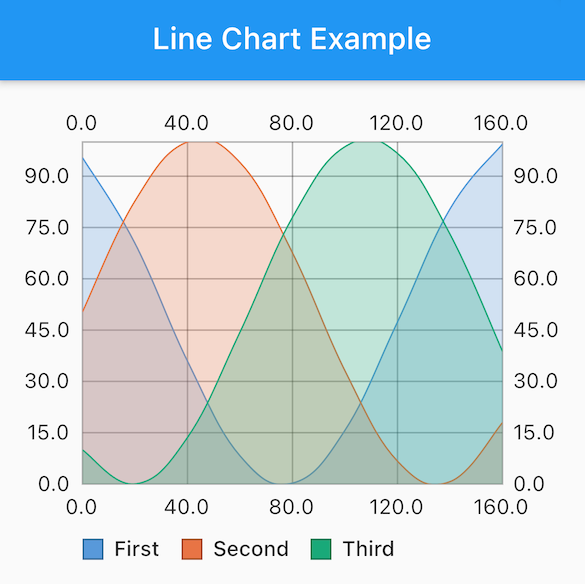
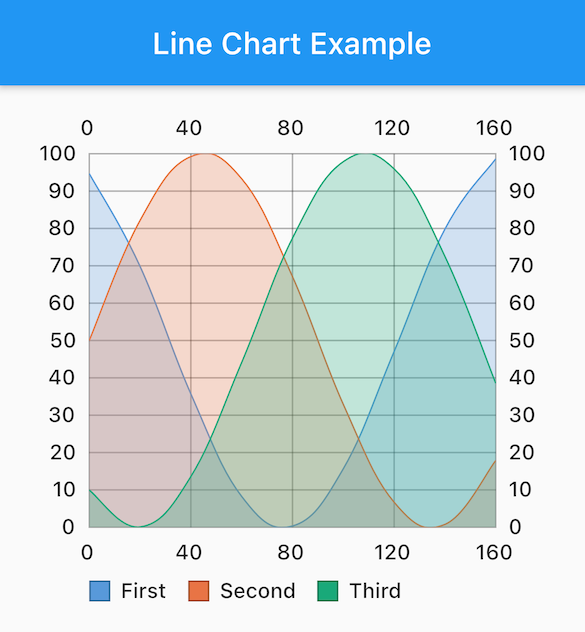
fill in chart data point margin
When minimum range is specified, fill in missing data point
labels and lines.

diff --git a/lib/src/axis_labeller.dart b/lib/src/axis_labeller.dart
@@ -6,7 +6,6 @@ import 'package:simple_line_chart/src/projection.dart';
 
 import 'line_chart_data.dart';
 import 'style.dart';
-import 'extensions.dart';
 import 'text_painter.dart';
 
 enum AxisDimension { X, Y }
@@ -15,13 +14,15 @@ class AxisLabeller {
   final LineChartStyle style;
   final AxisStyle axisStyle;
   final LineChartData data;
-  final List<Dataset> datasets;
+  late final YAxisDependency axisDependency;
   final AxisDimension axis;
   final double length;
   List<LabelPoint>? _labelPoints;
 
-  AxisLabeller(this.style, this.axisStyle, this.data, this.datasets, this.axis,
-      this.length);
+  AxisLabeller(this.style, this.axisStyle, this.data,
+      YAxisDependency? axisDependency, this.axis, this.length) {
+    this.axisDependency = axisDependency ?? YAxisDependency.LEFT;
+  }
 
   double get fontSize =>
       axisStyle.textStyle.fontSize ?? AxisStyle.defaultFontSize;
@@ -33,6 +34,12 @@ class AxisLabeller {
       : labelPoints().map((e) => e.height).reduce(max);
 
   List<LabelPoint> labelPoints() {
+    var axisDependency = this.axisDependency;
+    var datasets = data.datasetsOf(axisDependency: axisDependency);
+    if (datasets.isEmpty) {
+      axisDependency = YAxisDependency.LEFT;
+      datasets = data.datasetsOf(axisDependency: axisDependency);
+    }
     if (datasets.isEmpty || datasets.first.dataPoints.length < 2) {
       return [];
     }
@@ -64,30 +71,15 @@ class AxisLabeller {
                     .dx))
             .toList();
       } else {
-        var minY = datasets
-            .map((dataset) => dataset.dataPoints.map((p) => p.y).reduce(min))
-            .reduce(min);
-        var maxY = datasets
-            .map((dataset) => dataset.dataPoints.map((p) => p.y).reduce(max))
-            .reduce(max);
-        if (axisStyle.marginAbove != null) {
-          maxY += axisStyle.marginAbove!;
-        }
-        if (axisStyle.marginBelow != null) {
-          minY -= axisStyle.marginBelow!;
-        }
-        if (axisStyle.absoluteMin != null) {
-          minY = axisStyle.absoluteMin!;
-        }
-        if (axisStyle.absoluteMax != null) {
-          maxY = axisStyle.absoluteMax!;
-        }
-        minY = minY.floor().toDouble();
-        maxY = maxY.ceil().toDouble();
-        final interval = (minY.difference(maxY) / labelCount).ceil();
+        final metrics = axisDependency == YAxisDependency.LEFT
+            ? projection.leftMetrics()
+            : projection.rightMetrics();
+        final interval = (metrics.rangeY / labelCount).ceil();
         _labelPoints = <LabelPoint>[];
         if (interval > 0) {
-          for (var labelY = minY; labelY <= maxY; labelY += interval) {
+          for (var labelY = metrics.minY;
+              labelY <= metrics.maxY;
+              labelY += interval) {
             final text = axisStyle.labelProvider(DataPoint(x: 0, y: labelY));
             final painter = _createPainter(text);
 

diff --git a/lib/src/line_chart.dart b/lib/src/line_chart.dart
@@ -72,23 +72,24 @@ class LineChart extends StatelessWidget {
 
       var leftAxisWidth = 0.0;
       var rightAxisWidth = 0.0;
-      final leftDatasets =
-          data.datasetsOf(axisDependency: YAxisDependency.LEFT);
-      final rightDatasets =
-          data.datasetsOf(axisDependency: YAxisDependency.RIGHT);
       final topInset = _xAxisHeight(style.topAxisStyle);
       final verticalAxisInset = topInset + bottomInset;
       AxisLabeller? leftAxisLabeller = style.leftAxisStyle == null
           ? null
-          : AxisLabeller(style, style.leftAxisStyle!, data, leftDatasets,
-              AxisDimension.Y, frame.maxHeight - verticalAxisInset);
+          : AxisLabeller(
+              style,
+              style.leftAxisStyle!,
+              data,
+              YAxisDependency.LEFT,
+              AxisDimension.Y,
+              frame.maxHeight - verticalAxisInset);
       AxisLabeller? rightAxisLabeller = style.rightAxisStyle == null
           ? null
           : AxisLabeller(
               style,
               style.rightAxisStyle!,
               data,
-              rightDatasets.isEmpty ? leftDatasets : rightDatasets,
+              YAxisDependency.RIGHT,
               AxisDimension.Y,
               frame.maxHeight - verticalAxisInset);
       if (leftAxisLabeller != null) {
@@ -103,12 +104,12 @@ class LineChart extends StatelessWidget {
       }
       AxisLabeller? topAxisLabeller = style.topAxisStyle == null
           ? null
-          : AxisLabeller(style, style.topAxisStyle!, data, data.datasets,
+          : AxisLabeller(style, style.topAxisStyle!, data, null,
               AxisDimension.X, frame.maxWidth - leftAxisWidth - rightAxisWidth);
 
       AxisLabeller? bottomAxisLabeller = style.bottomAxisStyle == null
           ? null
-          : AxisLabeller(style, style.bottomAxisStyle!, data, data.datasets,
+          : AxisLabeller(style, style.bottomAxisStyle!, data, null,
               AxisDimension.X, frame.maxWidth - leftAxisWidth - rightAxisWidth);
       if (leftAxisLabeller != null) {
         children.add(Positioned(

diff --git a/lib/src/projection.dart b/lib/src/projection.dart
@@ -32,6 +32,12 @@ class Projection {
         style, size, data, _leftMetrics, _rightMetrics, transform);
   }
 
+  ProjectionDatasetMetrics leftMetrics() =>
+      _leftMetrics.toProjectionDatasetMetrics();
+
+  ProjectionDatasetMetrics rightMetrics() =>
+      _rightMetrics.toProjectionDatasetMetrics();
+
   _DatasetMetrics _metrics(YAxisDependency axisDependency) =>
       axisDependency == YAxisDependency.LEFT ? _leftMetrics : _rightMetrics;
 
@@ -88,6 +94,14 @@ class Projection {
     final values = data.datasets.map((e) => e.maxX);
     return values.isEmpty ? 0 : values.reduce(max);
   }
+}
+
+class ProjectionDatasetMetrics {
+  final double minY;
+  final double maxY;
+  final double rangeY;
+
+  ProjectionDatasetMetrics._(this.minY, this.maxY, this.rangeY);
 }
 
 class _DatasetMetrics {
@@ -165,4 +179,7 @@ class _DatasetMetrics {
       _yRange = maxY.difference(minY);
     }
   }
+
+  ProjectionDatasetMetrics toProjectionDatasetMetrics() =>
+      ProjectionDatasetMetrics._(minY, maxY, yRange);
 }
